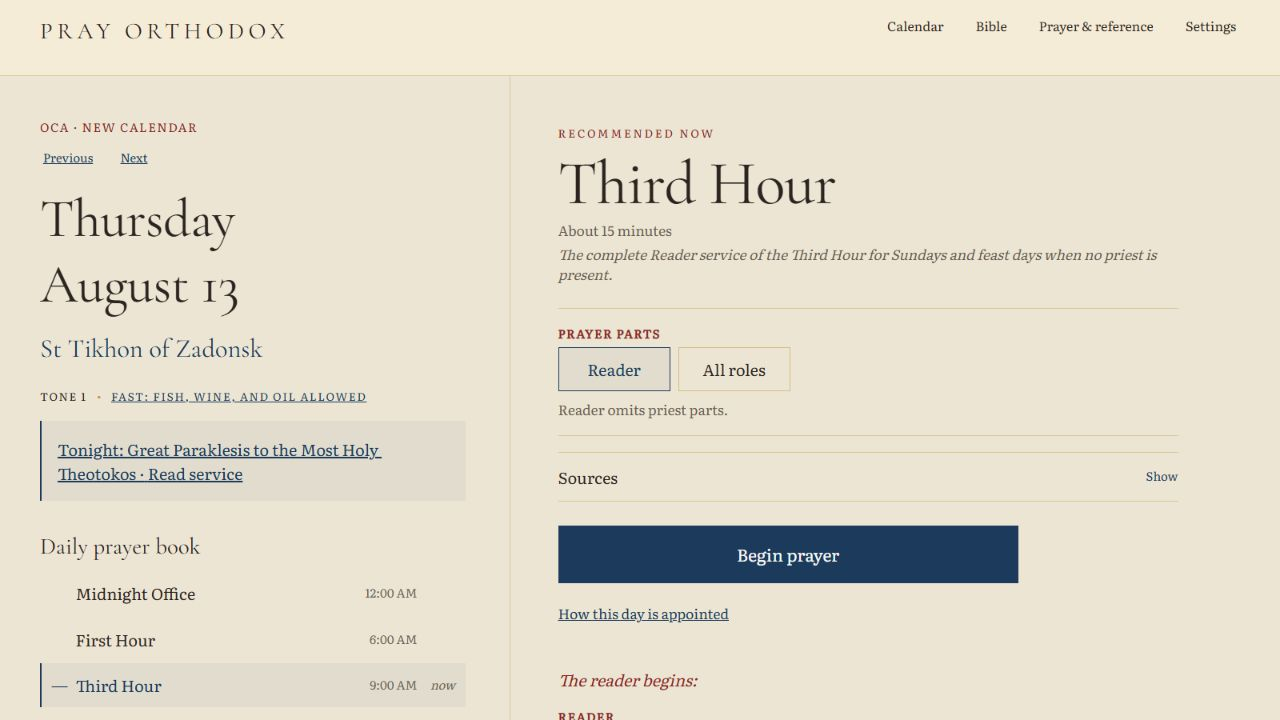
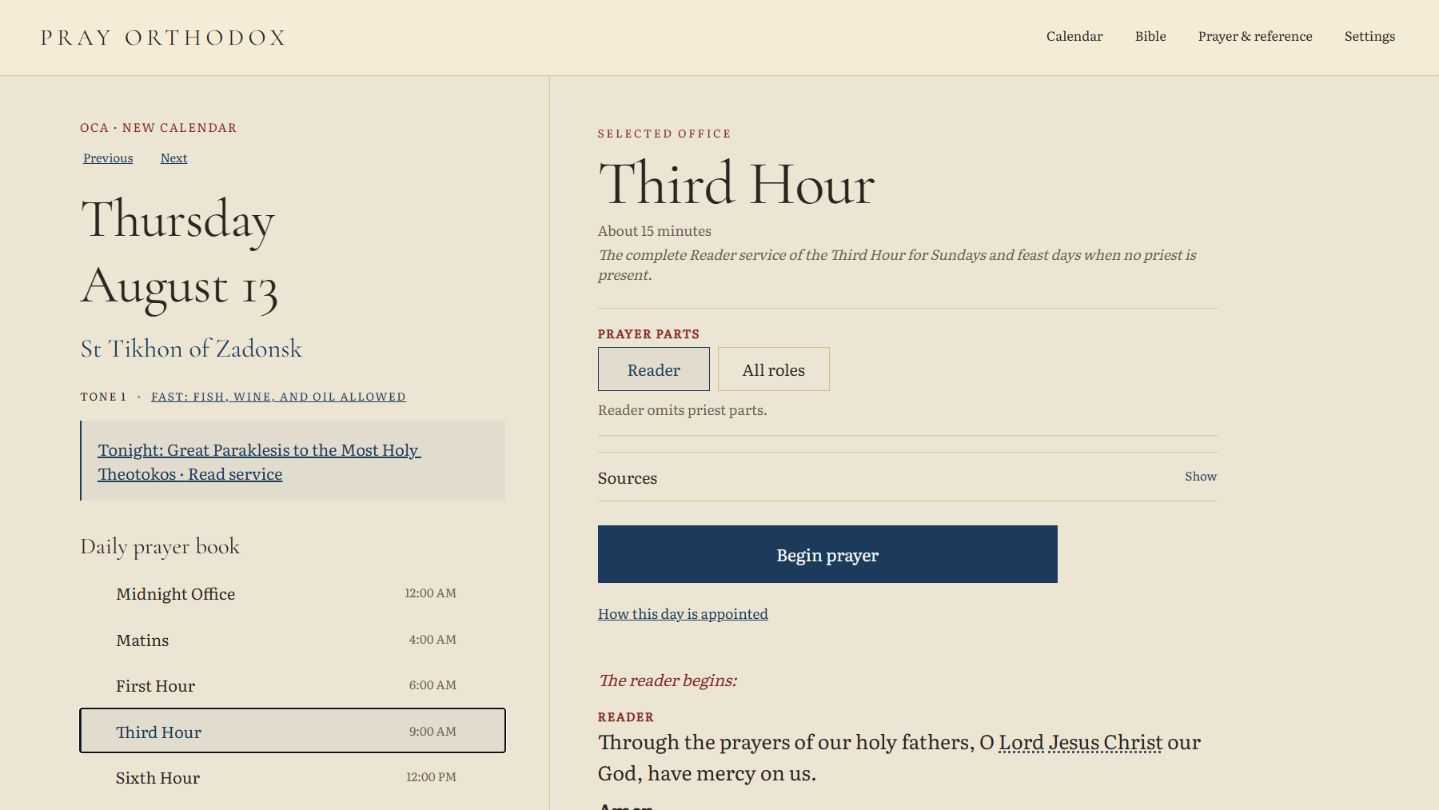
fix: refresh Pray Orthodox process image

diff --git a/process/index.html b/process/index.html
@@ -71,7 +71,7 @@
               <div class="case-destinations"><a href="https://www.totallyreliable.com/" data-jelly>Visit the official site</a><a href="https://streamscharts.com/games/totally-reliable-delivery-service/release-stats" data-jelly>See launch-week Twitch data</a></div>
             </div>
             <figure class="process-case-shot">
-              <img src="/jpg/process/totally-reliable-ragdoll-chain.jpg" alt="Four Totally Reliable Delivery Service ragdolls hanging in a chain beneath a flying jetpack." width="2249" height="1500" loading="lazy" decoding="async">
+              <img src="/jpg/process/totally-reliable-ragdoll-chain.jpg" alt="Four Totally Reliable Delivery Service ragdolls hanging in a chain beneath a flying jetpack." width="2560" height="1440" loading="lazy" decoding="async">
             </figure>
           </article>
           <article id="case-theosis" data-case-panel hidden>
@@ -83,7 +83,7 @@
               <div class="case-destinations"><a href="https://prayorthodox.com/" data-jelly>Open Pray Orthodox</a></div>
             </div>
             <figure class="process-case-shot">
-              <img src="/jpg/process/pray-orthodox-reader.png" alt="Pray Orthodox showing the selected church day beside the Third Hour Reader office with its sources collapsed." width="1440" height="900" loading="lazy" decoding="async">
+              <img src="/jpg/process/pray-orthodox-reader.png" alt="Pray Orthodox showing the selected church day beside the Third Hour Reader office with its sources collapsed." width="1439" height="810" loading="lazy" decoding="async">
             </figure>
           </article>
           <article id="case-workhelix" data-case-panel hidden>
@@ -94,7 +94,7 @@
               <div class="case-destinations"><a href="https://www.workhelix.com/platform" data-jelly>Explore Nucleus</a><a href="https://www.workhelix.com/resources/nucleus-product-overview" data-jelly>Read the product overview</a></div>
             </div>
             <figure class="process-case-shot">
-              <img src="/jpg/process/nucleus-ai-assessment.png" alt="Nucleus AI Assessment dashboard with opportunity metrics, a business-unit chart, and a use-case treemap." width="1456" height="1311" loading="lazy" decoding="async">
+              <img src="/jpg/process/nucleus-ai-assessment.png" alt="Nucleus AI Assessment dashboard with opportunity metrics, a business-unit chart, and a use-case treemap." width="1448" height="1325" loading="lazy" decoding="async">
             </figure>
           </article>
         </section>

diff --git a/tests/site-interactions.spec.js b/tests/site-interactions.spec.js
@@ -419,6 +419,14 @@ test('Process summaries show local product evidence in a stable landscape frame'
     await expect(image).toHaveAttribute('decoding', 'async');
     await expect(image).toBeVisible();
     expect(await image.evaluate((element) => element.naturalWidth)).toBeGreaterThan(0);
+    const dimensions = await image.evaluate((element) => ({
+      declaredWidth: Number(element.getAttribute('width')),
+      declaredHeight: Number(element.getAttribute('height')),
+      naturalWidth: element.naturalWidth,
+      naturalHeight: element.naturalHeight
+    }));
+    expect(dimensions.declaredWidth, `${name} width metadata`).toBe(dimensions.naturalWidth);
+    expect(dimensions.declaredHeight, `${name} height metadata`).toBe(dimensions.naturalHeight);
     const box = await page.locator('[data-case-panel]:visible .process-case-shot').boundingBox();
     expect(box).not.toBeNull();
     expect(Math.abs(box.width / box.height - 16 / 9)).toBeLessThan(0.02);
